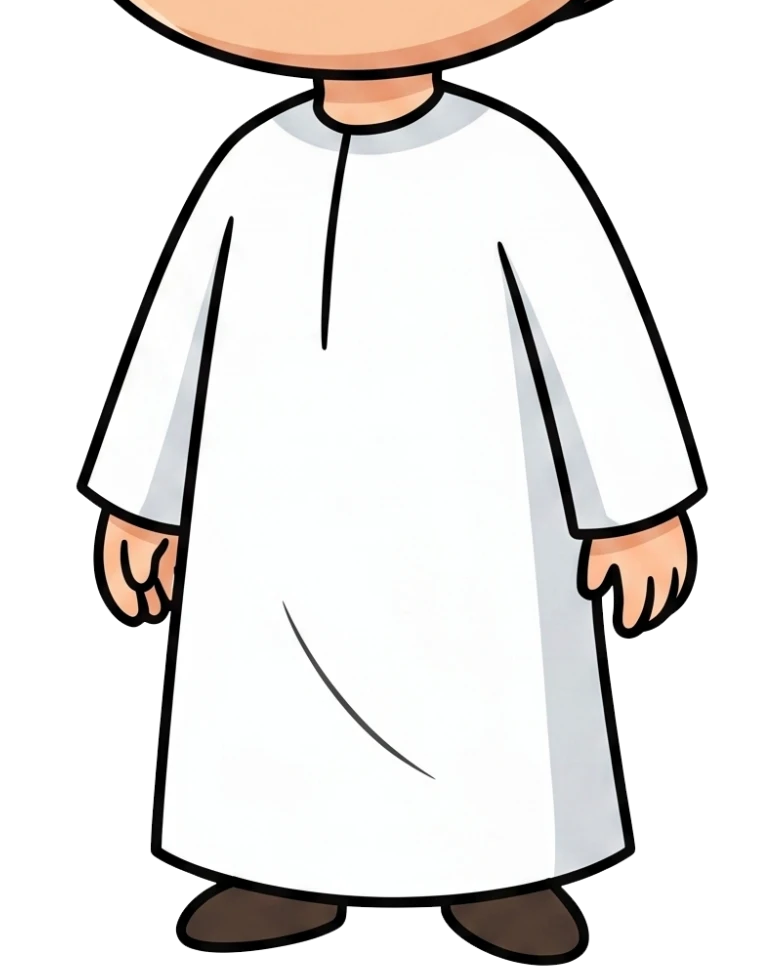
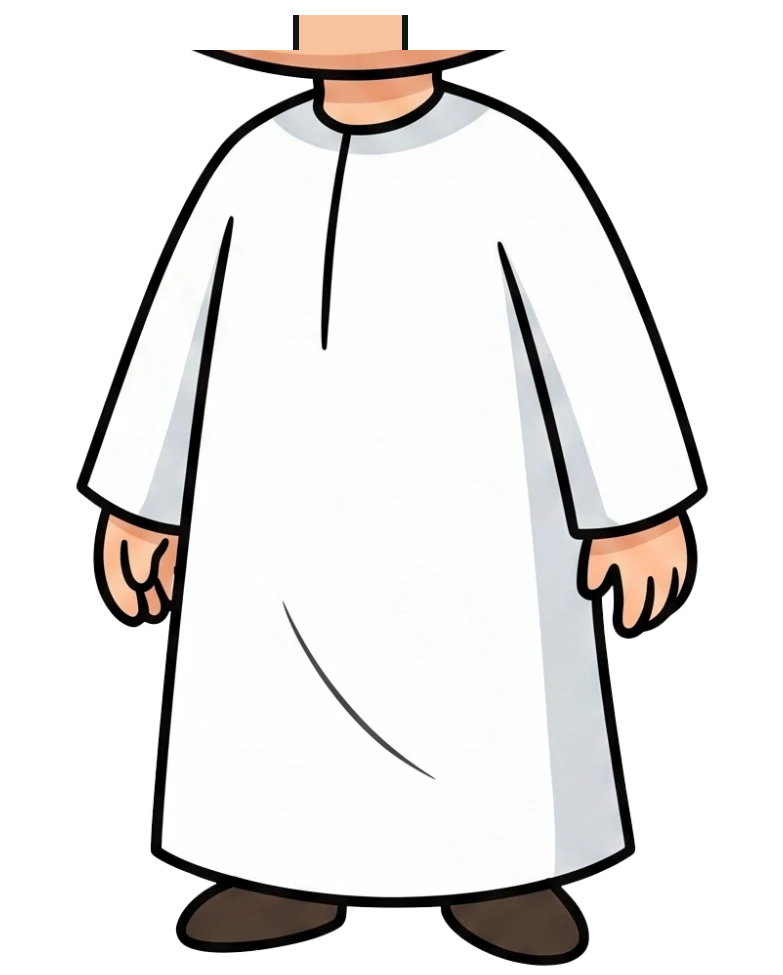
arkan-kids: clean neck joint, presenter outside camera, narrower cards
- Head layer trimmed per column below the jaw line; neck now belongs to
  the body with a hidden extension behind the chin; pivot on neck top
- Presenter (boy, shadow, hello bubble) moved out of the camera layer so
  zoom/pan never crops him; calmer head tilt
- Cards/chips/ribbon narrowed and shifted left to clear the boy

Claude-Session: https://claude.ai/code/session_01GPKAZgSJsfVBdm8aPorpH8

Changed region(s): [[0.1533, 0.0, 0.7663, 0.0615]]

diff --git a/motion-studio/films/arkan-kids/film.html b/motion-studio/films/arkan-kids/film.html
@@ -40,19 +40,19 @@
   #rays { left:525px; top:330px; width:10px; height:10px; }
 
   /* البطاقات */
-  .card { position:absolute; left:940px; top:200px; width:530px; background:#fff; border-radius:32px; padding:34px 40px 30px; border-right:14px solid var(--c); }
-  .card h2 { font:800 78px 'B'; color:var(--c); line-height:1.1; }
-  .card p { font:700 46px 'B'; line-height:1.35; margin-top:10px; }
+  .card { position:absolute; left:880px; top:200px; width:470px; background:#fff; border-radius:32px; padding:34px 40px 30px; border-right:14px solid var(--c); }
+  .card h2 { font:800 72px 'B'; color:var(--c); line-height:1.1; }
+  .card p { font:700 42px 'B'; line-height:1.35; margin-top:10px; }
   .card .icons { display:flex; gap:48px; justify-content:center; margin-top:18px; }
   .icon { text-align:center; font:700 36px 'B'; color:#6A6153; }
-  .icon svg { width:128px; height:128px; display:block; margin:0 auto 4px; overflow:visible; }
+  .icon svg { width:112px; height:112px; display:block; margin:0 auto 4px; overflow:visible; }
   #c0 { --c:var(--dg); } #c1 { --c:var(--g); } #c2 { --c:var(--gold); } #c3 { --c:var(--blue); }
-  #three { left:1140px; top:250px; width:200px; height:200px; border-radius:50%; background:var(--gold); color:#fff; font:800 150px 'B'; display:flex; align-items:center; justify-content:center; line-height:1; }
-  #ribbon { left:960px; top:260px; width:500px; text-align:center; }
+  #three { left:1060px; top:250px; width:200px; height:200px; border-radius:50%; background:var(--gold); color:#fff; font:800 150px 'B'; display:flex; align-items:center; justify-content:center; line-height:1; }
+  #ribbon { left:880px; top:260px; width:500px; text-align:center; }
   #ribbon p { font:700 46px 'B'; color:var(--dg); margin-bottom:14px; }
   #ribbon div { display:inline-block; white-space:nowrap; background:var(--roof); color:#fff; font:800 58px 'B'; padding:16px 42px 26px; border-radius:22px; }
-  #remember { left:980px; top:150px; width:470px; text-align:center; font:700 64px 'K'; color:var(--roof); }
-  .chip { position:absolute; left:1000px; width:440px; height:108px; border-radius:56px; display:flex; align-items:center; gap:22px; padding:0 30px; color:#fff; font:800 58px 'B'; }
+  #remember { left:900px; top:150px; width:460px; text-align:center; font:700 64px 'K'; color:var(--roof); }
+  .chip { position:absolute; left:920px; width:420px; height:108px; border-radius:56px; display:flex; align-items:center; gap:22px; padding:0 30px; color:#fff; font:800 58px 'B'; }
   .chip i { width:58px; height:58px; border-radius:50%; background:#fff; display:inline-flex; align-items:center; justify-content:center; font:800 36px 'B'; font-style:normal; color:var(--dg); }
   #k1 { top:290px; background:var(--g); } #k2 { top:430px; background:var(--gold); } #k3 { top:570px; background:var(--blue); }
 
@@ -66,7 +66,7 @@
   /* الطفل المقدّم */
   #boy { position:absolute; left:1289px; top:0; width:783px; height:1712px; transform-origin:391px 1712px; }
   #body { position:absolute; left:0; top:737px; }
-  #headw { position:absolute; left:0; top:0; width:783px; height:795px; transform-origin:317px 782px; }
+  #headw { position:absolute; left:0; top:0; width:783px; height:795px; transform-origin:349px 789px; }
   #headw img, #headw svg { position:absolute; left:0; top:0; width:783px; height:795px; }
   #shadow { position:absolute; left:1530px; top:1022px; width:300px; height:40px; border-radius:50%; background:rgba(30,60,40,.28); filter:blur(6px); }
   #bubble { left:1150px; top:190px; }
@@ -135,6 +135,10 @@
 
     <!-- المقدّم -->
     <svg id="arrow" class="abs" viewBox="0 0 1920 1080"><path id="arrp" pathLength="1" d="" fill="none" stroke="#1F5C4A" stroke-width="7" stroke-linecap="round" stroke-dasharray="1 1"/><path id="arrh" d="" fill="#1F5C4A"/></svg>
+  </div>
+
+  <!-- المقدّم خارج الكاميرا: لا يقصّه الزوم أبدًا -->
+  <div id="presenter" class="L" style="pointer-events:none">
     <div id="shadow"></div>
     <div id="boy">
       <img id="body" src="assets/boy_body.png" alt="">
@@ -287,10 +291,10 @@ window.renderAt = async function (t) {
   lean += -3 * Math.sin(Math.PI * clamp((t - E.k1 + .2) / 3.4));
   const bob = Math.sin(t * 2.1) * 4 + talk * 6;
   const S = .44;
-  set($('#boy'), { x: (1 - inS) * 700, y: (1045 - 1712) - hop - bob * .3, s: S, r: lean });   // القدمان على الأرض عند y=1045
+  set($('#boy'), { x: (1 - inS) * 700, y: (1035 - 1712) - hop - bob * .3, s: S, r: lean });   // القدمان على الأرض عند y=1045
   set($('#shadow'), { x: (1 - inS) * 700, sx: 1 - hop / 300, o: .9 });
-  const nod = talk * 4 + Math.sin(t * 1.3) * 1.5;
-  const tilt = Math.sin(t * 1.7) * (1.5 + talk * 3) + (t > E.bravo ? 5 * Math.sin(Math.PI * clamp((t - E.bravo) / 1.2)) : 0);
+  const nod = talk * 3 + Math.sin(t * 1.3) * 1;
+  const tilt = Math.sin(t * 1.7) * (1 + talk * 2) + (t > E.bravo ? 3 * Math.sin(Math.PI * clamp((t - E.bravo) / 1.2)) : 0);
   $('#headw').style.transform = `translate(0px, ${-nod}px) rotate(${tilt}deg)`;
   // الفم: يفتح مع غلاف الصوت؛ في الصمت تبقى ابتسامة الرسم الأصلية
   const mo = clamp((e - .06) * 1.25);
